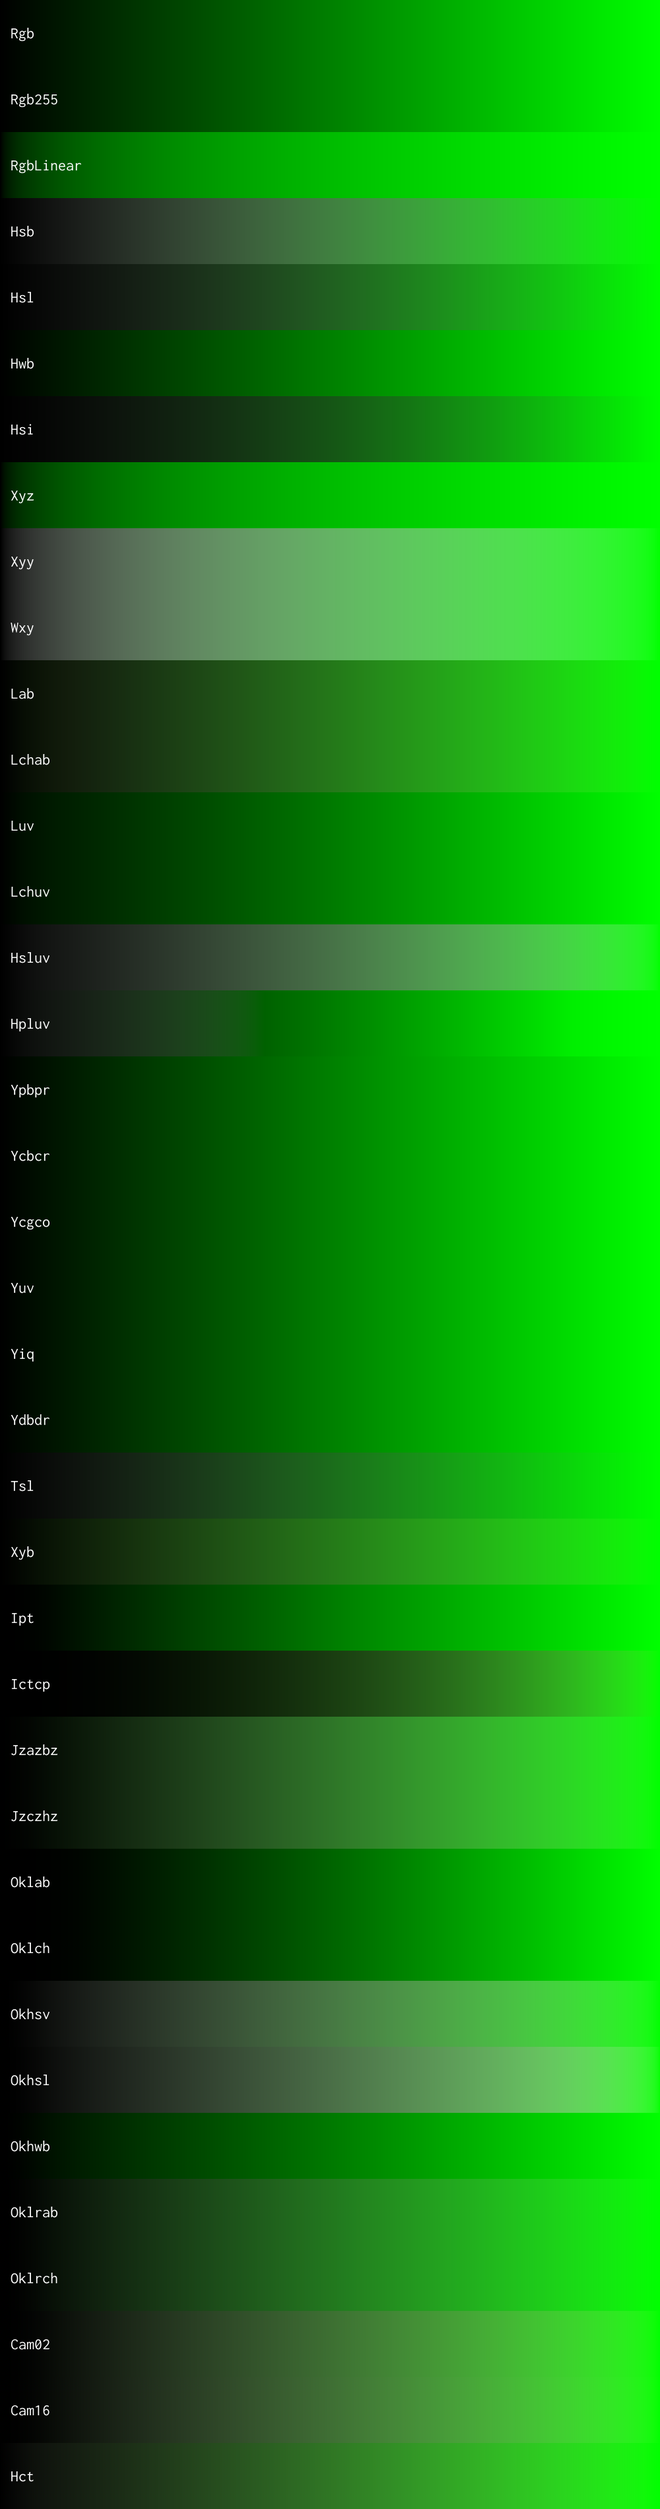
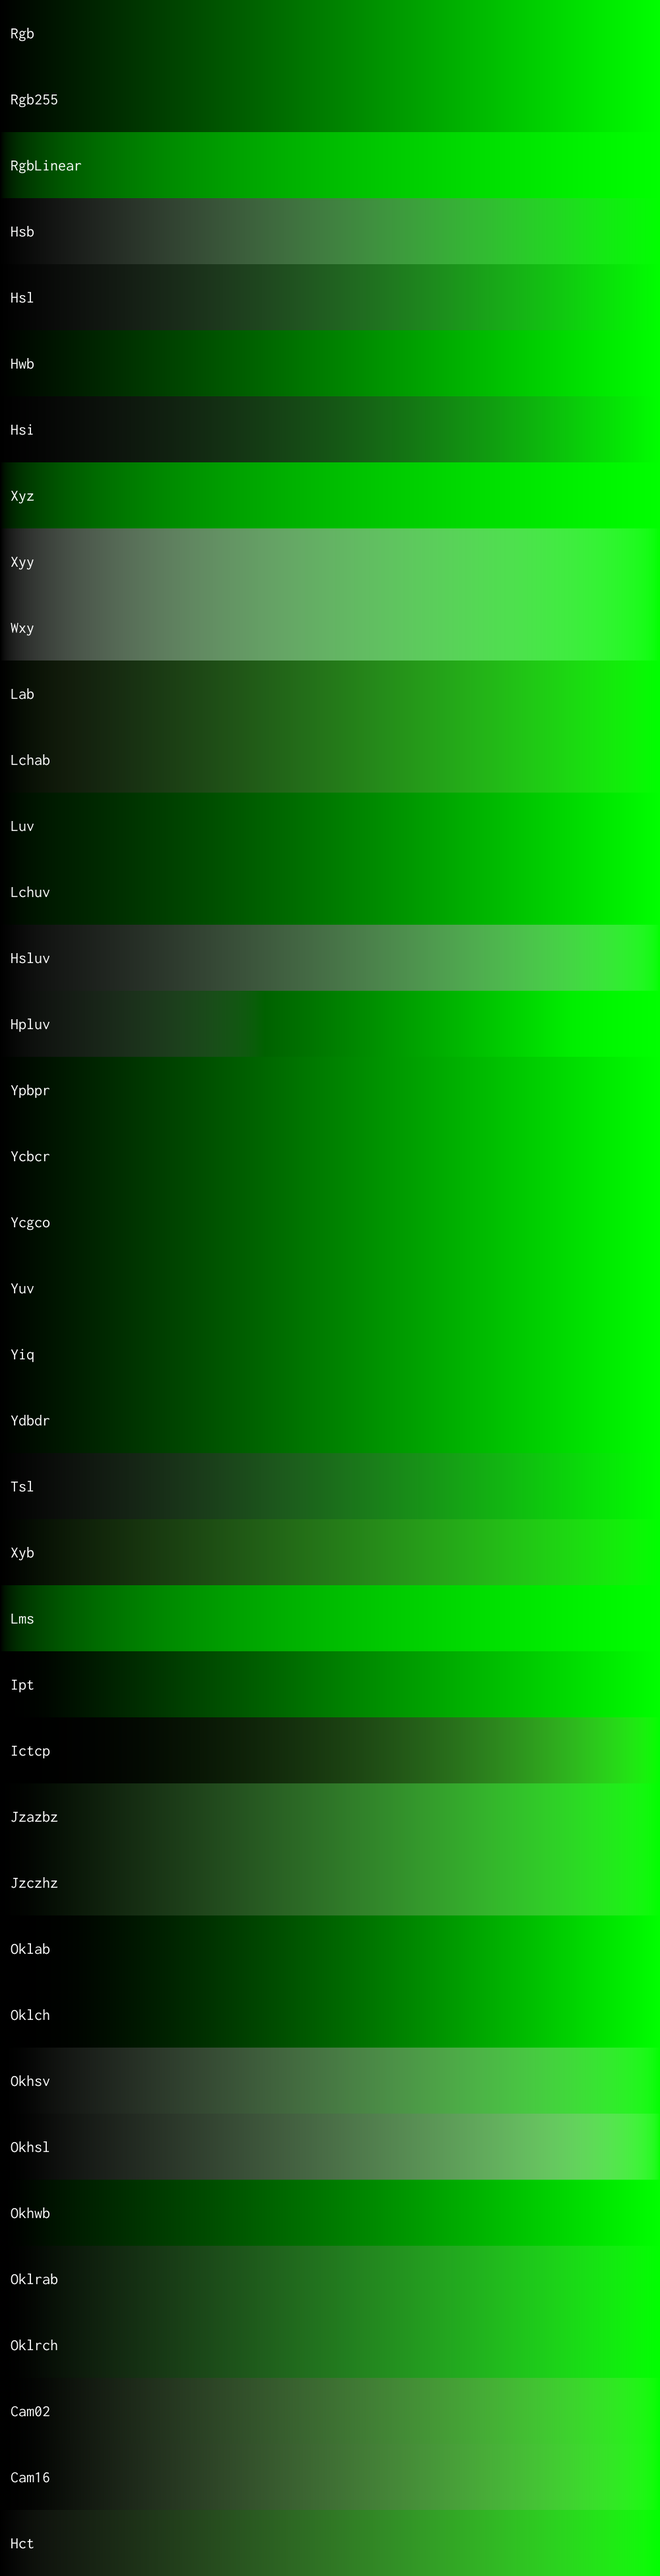
Add LMS colour space

diff --git a/Unicolour.Tests/KnownLmsTests.cs b/Unicolour.Tests/KnownLmsTests.cs
@@ -1,0 +1,76 @@
+using NUnit.Framework;
+using Wacton.Unicolour.Tests.Utils;
+
+namespace Wacton.Unicolour.Tests;
+
+public class KnownLmsTests
+{
+    private const double Tolerance = 0.00025;
+
+    [TestCase(nameof(Illuminant.D65))]
+    [TestCase(nameof(Illuminant.D50))]
+    [TestCase(nameof(Illuminant.E))]
+    public void Black(string illuminantName)
+    {
+        var black = new Unicolour(ConfigUtils.GetConfigWithStandardRgb(illuminantName), ColourSpace.Xyz, 0, 0, 0);
+        TestUtils.AssertTriplet<Lms>(black, new(0.0, 0.0, 0.0), Tolerance);
+    }
+    
+    [TestCase(nameof(Illuminant.D65))]
+    [TestCase(nameof(Illuminant.D50))]
+    [TestCase(nameof(Illuminant.E))]
+    public void White(string illuminantName)
+    {
+        var whiteChromaticity = TestUtils.Illuminants[illuminantName].GetWhitePoint(Observer.Degree2).ToChromaticity();
+        var white = new Unicolour(ConfigUtils.GetConfigWithStandardRgb(illuminantName), whiteChromaticity);
+        TestUtils.AssertTriplet<Lms>(white, new(1.0, 1.0, 1.0), Tolerance); // white is always normalised as [1, 1, 1] regardless of XYZ illuminant
+    }
+    
+    [TestCase(nameof(Illuminant.D65))]
+    [TestCase(nameof(Illuminant.D50))]
+    [TestCase(nameof(Illuminant.E))]
+    public void Grey(string illuminantName)
+    {
+        var grey = StandardRgb.Grey.ConvertToConfiguration(ConfigUtils.GetConfigWithStandardRgb(illuminantName));
+        var luminance = grey.RelativeLuminance;
+        TestUtils.AssertTriplet<Lms>(grey, new(luminance, luminance, luminance), Tolerance);
+    }
+    
+    /*
+     * not yet found reliable reference values for non-greyscale colours
+     * so these tests are confirming expected relative LMS values
+     */
+
+    [TestCase(nameof(Illuminant.D65))]
+    [TestCase(nameof(Illuminant.D50))]
+    [TestCase(nameof(Illuminant.E))]
+    public void Red(string illuminantName)
+    {
+        var red = StandardRgb.Red.ConvertToConfiguration(ConfigUtils.GetConfigWithStandardRgb(illuminantName));
+        var lms = red.Lms;
+        Assert.That(lms.L, Is.GreaterThan(lms.M));
+        Assert.That(lms.M, Is.GreaterThan(lms.S));
+    }
+    
+    [TestCase(nameof(Illuminant.D65))]
+    [TestCase(nameof(Illuminant.D50))]
+    [TestCase(nameof(Illuminant.E))]
+    public void Green(string illuminantName)
+    {
+        var green = StandardRgb.Green.ConvertToConfiguration(ConfigUtils.GetConfigWithStandardRgb(illuminantName));
+        var lms = green.Lms;
+        Assert.That(lms.M, Is.GreaterThan(lms.L));
+        Assert.That(lms.L, Is.GreaterThan(lms.S));
+    }
+    
+    [TestCase(nameof(Illuminant.D65))]
+    [TestCase(nameof(Illuminant.D50))]
+    [TestCase(nameof(Illuminant.E))]
+    public void Blue(string illuminantName)
+    {
+        var blue = StandardRgb.Blue.ConvertToConfiguration(ConfigUtils.GetConfigWithStandardRgb(illuminantName));;
+        var lms = blue.Lms;
+        Assert.That(lms.S, Is.GreaterThan(lms.M));
+        Assert.That(lms.M, Is.GreaterThan(lms.L));
+    }
+}

diff --git a/Unicolour/Lms.cs b/Unicolour/Lms.cs
@@ -1,0 +1,59 @@
+namespace Wacton.Unicolour;
+
+public record Lms : ColourRepresentation
+{
+    protected override int? HueIndex => null;
+    public double L => First;
+    public double M => Second;
+    public double S => Third;
+    internal override bool IsGreyscale => L.Equals(M) && M.Equals(S);
+    
+    public Lms(double l, double m, double s) : this(l, m, s, ColourHeritage.None) {}
+    internal Lms(ColourTriplet triplet, ColourHeritage heritage) : this(triplet.First, triplet.Second, triplet.Third, heritage) {}
+    internal Lms(double l, double m, double s, ColourHeritage heritage) : base(l, m, s, heritage) {}
+
+    protected override string FirstString => $"{L:F4}";
+    protected override string SecondString => $"{M:F4}";
+    protected override string ThirdString => $"{S:F4}";
+    public override string ToString() => base.ToString();
+    
+    /*
+     * LMS is a transform of XYZ 
+     * Forward: https://en.wikipedia.org/wiki/LMS_color_space#XYZ_to_LMS
+     * Reverse: https://en.wikipedia.org/wiki/LMS_color_space#XYZ_to_LMS
+     *
+     * this is a normalised space where black = (0, 0, 0), white = (1, 1, 1), etc. regardless of XYZ illuminant
+     * determining physiological cone responses (i.e. D65 white does trigger equal L, M, S responses) requires spectral data and LMS CMFs
+     * but spectral data is almost never present whereas XYZ values always are
+     * see also: https://doi.org/10.1002/col.22879 - transforming XYZ CMFs (e.g. x̄) to LMS CMFs (e.g. l-bar)
+     */
+    
+    // aka VonKries from http://www.brucelindbloom.com/index.html?Eqn_ChromAdapt.html
+    internal static readonly Matrix HuntPointerEstevez = new(new[,]
+    {
+        { +0.4002400, +0.7076000, -0.0808100 },
+        { -0.2263000, +1.1653200, +0.0457000 },
+        { +0.0000000, +0.0000000, +0.9182200 }
+    });
+    
+    // this is the white point that HPE is defined relative to
+    // the LMS values themselves are not tied to a specific white point
+    // and the XYZ white point ultimately has no impact - black is always (0, 0, 0), white is always (1, 1, 1), etc.
+    private static readonly WhitePoint D65WhitePoint = Illuminant.D65.GetWhitePoint(Observer.Degree2);
+    
+    internal static Lms FromXyz(Xyz xyz, XyzConfiguration xyzConfig)
+    {
+        var xyzMatrix = Matrix.From(xyz);
+        var d65Matrix = Adaptation.WhitePoint(xyzMatrix, xyzConfig.WhitePoint, D65WhitePoint, xyzConfig.AdaptationMatrix);
+        var lmsMatrix = HuntPointerEstevez.Multiply(d65Matrix);
+        return new Lms(lmsMatrix.ToTriplet(), ColourHeritage.From(xyz));
+    }
+
+    internal static Xyz ToXyz(Lms lms, XyzConfiguration xyzConfig)
+    {
+        var lmsMatrix = Matrix.From(lms);
+        var d65Matrix = HuntPointerEstevez.Inverse().Multiply(lmsMatrix);
+        var xyzMatrix = Adaptation.WhitePoint(d65Matrix, D65WhitePoint, xyzConfig.WhitePoint, xyzConfig.AdaptationMatrix);
+        return new Xyz(xyzMatrix.ToTriplet(), ColourHeritage.From(lms));
+    }
+}

diff --git a/Unicolour/VisionDeficiency.cs b/Unicolour/VisionDeficiency.cs
@@ -21,7 +21,7 @@ public static class VisionDeficiency
             Cvd.Deuteranomaly => ApplySimulation(colour, DeuteranomalyRgbSim, severity),
             Cvd.Tritanopia => ApplySimulation(colour, TritanomalyRgbSim, 1.0),
             Cvd.Tritanomaly => ApplySimulation(colour, TritanomalyRgbSim, severity),
-            Cvd.BlueConeMonochromacy => ApplySimulation(colour, BlueConeMonochromacyLmsSim),
+            Cvd.BlueConeMonochromacy => ApplySimulation(colour, ColourSpace.Lms, BlueConeMonochromacyLmsSim),
             Cvd.Achromatopsia => new(ColourSpace.RgbLinear, colour.RelativeLuminance, colour.RelativeLuminance, colour.RelativeLuminance),
             _ => throw new ArgumentOutOfRangeException(nameof(cvd), cvd, null)
         };
@@ -47,22 +47,14 @@ public static class VisionDeficiency
         };
         
         // since simulated RGB-Linear often results in values outwith 0 - 1, seems unnecessary to use constrained inputs
-        var simulatedRgbLinear = new Matrix(simulationMatrix).Multiply(Matrix.From(colour.RgbLinear)).ToTriplet();
-        return new Unicolour(ColourSpace.RgbLinear, simulatedRgbLinear.Tuple);
+        return ApplySimulation(colour, ColourSpace.RgbLinear, simulationMatrix);
     }
     
-    internal static Unicolour ApplySimulation(Unicolour colour, double[,] simulationMatrix)
+    internal static Unicolour ApplySimulation(Unicolour colour, ColourSpace colourSpace, double[,] simulationMatrix)
     {
-        var lmsMatrix = new Matrix(Adaptation.VonKries);
-        var lms = lmsMatrix.Multiply(Matrix.From(colour.Xyz));
-        var simulatedLms = new Matrix(simulationMatrix).Multiply(lms);
-        
-        var simulatedXyz = lmsMatrix.Inverse().Multiply(simulatedLms).ToTriplet();
-        return new Unicolour(ColourSpace.Xyz, simulatedXyz.Tuple);
-        
-        // TODO: add LMS colour space?
-        // var simulatedLms = new Matrix(simulationMatrix).Multiply(colour.Lms);
-        // return new Unicolour(ColourSpace.Lms, simulatedLms.Tuple);
+        var colourMatrix = Matrix.From(colour.GetRepresentation(colourSpace));
+        var simulatedLms = new Matrix(simulationMatrix).Multiply(colourMatrix).ToTriplet();
+        return new Unicolour(colourSpace, simulatedLms.Tuple);
     }
 
     private static double[,] InterpolateMatrices(double[][,] matrices, double severity)

diff --git a/Unicolour.Tests/Utils/RandomColours.cs b/Unicolour.Tests/Utils/RandomColours.cs
@@ -32,6 +32,7 @@ internal static class RandomColours
     public static readonly List<ColourTriplet> YdbdrTriplets = [];
     public static readonly List<ColourTriplet> TslTriplets = [];
     public static readonly List<ColourTriplet> XybTriplets = [];
+    public static readonly List<ColourTriplet> LmsTriplets = [];
     public static readonly List<ColourTriplet> IptTriplets = [];
     public static readonly List<ColourTriplet> IctcpTriplets = [];
     public static readonly List<ColourTriplet> JzazbzTriplets = [];
@@ -100,6 +101,7 @@ internal static class RandomColours
             YdbdrTriplets.Add(Ydbdr());
             TslTriplets.Add(Tsl());
             XybTriplets.Add(Xyb());
+            LmsTriplets.Add(Lms());
             IptTriplets.Add(Ipt());
             IctcpTriplets.Add(Ictcp());
             JzazbzTriplets.Add(Jzazbz());
@@ -152,6 +154,7 @@ internal static class RandomColours
             ColourSpace.Ydbdr => Ydbdr(),
             ColourSpace.Tsl => Tsl(),
             ColourSpace.Xyb => Xyb(),
+            ColourSpace.Lms => Lms(),
             ColourSpace.Ipt => Ipt(),
             ColourSpace.Ictcp => Ictcp(),
             ColourSpace.Jzazbz => Jzazbz(),
@@ -198,6 +201,7 @@ internal static class RandomColours
     private static ColourTriplet Ydbdr() => new(Rng(), Rng(-1.333, 1.333), Rng(-1.333, 1.333));
     private static ColourTriplet Tsl() => new(Rng(0, 360), Rng(), Rng());
     private static ColourTriplet Xyb() => new(Rng(-0.03, 0.03), Rng(), Rng(-0.4, 0.4)); 
+    private static ColourTriplet Lms() => new(Rng(), Rng(), Rng());
     private static ColourTriplet Ipt() => new(Rng(), Rng(-0.75, 0.75), Rng(-0.75, 0.75)); 
     private static ColourTriplet Ictcp() => new(Rng(), Rng(-0.5, 0.5), Rng(-0.5, 0.5)); 
     private static ColourTriplet Jzazbz() => new(Rng(0, 0.17), Rng(-0.10, 0.11), Rng(-0.16, 0.12)); // from own test values (SDR) - ranges suggested by paper (0->1, -0.5->0.5, -0.5->0.5) easily produce XYZ with NaNs [https://doi.org/10.1364/OE.25.015131]

diff --git a/Unicolour/Unicolour.Lookups.cs b/Unicolour/Unicolour.Lookups.cs
@@ -30,6 +30,7 @@ public partial class Unicolour
             ColourSpace.Ydbdr => Ydbdr,
             ColourSpace.Tsl => Tsl,
             ColourSpace.Xyb => Xyb,
+            ColourSpace.Lms => Lms,
             ColourSpace.Ipt => Ipt,
             ColourSpace.Ictcp => Ictcp,
             ColourSpace.Jzazbz => Jzazbz,
@@ -77,6 +78,7 @@ public partial class Unicolour
             ColourSpace.Ydbdr => new Ydbdr(first, second, third, heritage),
             ColourSpace.Tsl => new Tsl(first, second, third, heritage),
             ColourSpace.Xyb => new Xyb(first, second, third, heritage),
+            ColourSpace.Lms => new Lms(first, second, third, heritage),
             ColourSpace.Ipt => new Ipt(first, second, third, heritage),
             ColourSpace.Ictcp => new Ictcp(first, second, third, heritage),
             ColourSpace.Jzazbz => new Jzazbz(first, second, third, heritage),
@@ -220,6 +222,7 @@ public partial class Unicolour
             ColourSpace.Ydbdr => RgbLinear.ToXyz(RgbLinear, Configuration.Rgb, Configuration.Xyz),
             ColourSpace.Tsl => RgbLinear.ToXyz(RgbLinear, Configuration.Rgb, Configuration.Xyz),
             ColourSpace.Xyb => RgbLinear.ToXyz(RgbLinear, Configuration.Rgb, Configuration.Xyz),
+            ColourSpace.Lms => Lms.ToXyz(Lms, Configuration.Xyz),
             ColourSpace.Ipt => Ipt.ToXyz(Ipt, Configuration.Xyz),
             ColourSpace.Ictcp => Ictcp.ToXyz(Ictcp, Configuration.Xyz, Configuration.DynamicRange),
             ColourSpace.Jzazbz => Jzazbz.ToXyz(Jzazbz, Configuration.Xyz, Configuration.DynamicRange),
@@ -389,6 +392,15 @@ public partial class Unicolour
         {
             ColourSpace.Xyb => (Xyb)SourceRepresentation,
             _ => Xyb.FromRgbLinear(RgbLinear)
+        };
+    }
+    
+    private Lms EvaluateLms()
+    {
+        return SourceColourSpace switch
+        {
+            ColourSpace.Lms => (Lms)SourceRepresentation,
+            _ => Lms.FromXyz(Xyz, Configuration.Xyz)
         };
     }
     

diff --git a/Unicolour.Tests/GreyscaleTests.cs b/Unicolour.Tests/GreyscaleTests.cs
@@ -310,6 +310,29 @@ public class GreyscaleTests
     [TestCase(0.1, 1.0, -0.1, false)]
     public void Xyb(double x, double y, double b, bool expected) => AssertUnicolour(new(ColourSpace.Xyb, x, y, b), expected);
     
+    [TestCase(0.0, 0.0, 0.0, true)]
+    [TestCase(-0.00000000001, 0.0, -0.0, false)]
+    [TestCase(-0.0, -0.00000000001, 0.0, false)]
+    [TestCase(0.0, -0.0, -0.00000000001, false)]
+    [TestCase(0.00000000001, 0.0, 0.0, false)]
+    [TestCase(0.0, 0.00000000001, 0.0, false)]
+    [TestCase(0.0, 0.0, 0.00000000001, false)]
+    [TestCase(0.5, 0.5, 0.5, true)]
+    [TestCase(0.50000000001, 0.5, 0.5, false)]
+    [TestCase(0.5, 0.50000000001, 0.5, false)]
+    [TestCase(0.5, 0.5, 0.50000000001, false)]
+    [TestCase(0.49999999999, 0.5, 0.5, false)]
+    [TestCase(0.5, 0.49999999999, 0.5, false)]
+    [TestCase(0.5, 0.5, 0.49999999999, false)]
+    [TestCase(1.0, 1.0, 1.0, true)]
+    [TestCase(1.00000000001, 1.0, 1.0, false)]
+    [TestCase(1.0, 1.00000000001, 1.0, false)]
+    [TestCase(1.0, 1.0, 1.00000000001, false)]
+    [TestCase(0.99999999999, 1.0, 1.0, false)]
+    [TestCase(1.0, 0.99999999999, 1.0, false)]
+    [TestCase(1.0, 1.0, 0.99999999999, false)]
+    public void Lms(double l, double m, double s, bool expected) => AssertUnicolour(new(ColourSpace.Lms, l, m, s), expected);
+    
     [TestCase(0.5, 0.0, 0.0, true)]
     [TestCase(0.5, 0.00000000001, 0.0, false)]
     [TestCase(0.5, -0.00000000001, 0.0, false)]

diff --git a/Unicolour/Adaptation.cs b/Unicolour/Adaptation.cs
@@ -3,18 +3,17 @@ namespace Wacton.Unicolour;
 // http://www.brucelindbloom.com/index.html?Eqn_ChromAdapt.html
 public static class Adaptation
 {
+    // HPE for LMS conversion is the matrix originallu used in the von Kries transformation for chromatic adaptation
+    // doesn't matter that it's D65-relative; during adaptation both source & destination use D65 as a common relative space
+    public static readonly double[,] VonKries = Lms.HuntPointerEstevez.Data;
+    
+    // Bradford is a "spectrally sharpened" transformation matrix, adjusting L and M cone responses to make them more distinct
+    // designed to produce better adaptation results, not designed for actual LMS conversion
     public static readonly double[,] Bradford =
     {
         { +0.8951000, +0.2664000, -0.1614000 },
         { -0.7502000, +1.7135000, +0.0367000 },
         { +0.0389000, -0.0685000, +1.0296000 }
-    };
-    
-    public static readonly double[,] VonKries = // aka Hunt-Pointer-Estevez
-    {
-        { +0.4002400, +0.7076000, -0.0808100 },
-        { -0.2263000, +1.1653200, +0.0457000 },
-        { +0.0000000, +0.0000000, +0.9182200 }
     };
     
     public static readonly double[,] XyzScaling =

diff --git a/Unicolour.Tests/Utils/TestUtils.cs b/Unicolour.Tests/Utils/TestUtils.cs
@@ -172,6 +172,7 @@ internal static class TestUtils
             AccessProperty(() => colour.Lab);
             AccessProperty(() => colour.Lchab);
             AccessProperty(() => colour.Lchuv);
+            AccessProperty(() => colour.Lms);
             AccessProperty(() => colour.Luv);
             AccessProperty(() => colour.Oklab);
             AccessProperty(() => colour.Oklch);
@@ -257,6 +258,7 @@ internal static class TestUtils
         { typeof(Ydbdr), ColourSpace.Ydbdr },
         { typeof(Tsl), ColourSpace.Tsl },
         { typeof(Xyb), ColourSpace.Xyb },
+        { typeof(Lms), ColourSpace.Lms },
         { typeof(Ipt), ColourSpace.Ipt },
         { typeof(Ictcp), ColourSpace.Ictcp },
         { typeof(Jzazbz), ColourSpace.Jzazbz },

diff --git a/Unicolour.Tests/MixHueNoComponentTests.cs b/Unicolour.Tests/MixHueNoComponentTests.cs
@@ -27,6 +27,7 @@ public class MixHueNoComponentTests : MixHueAgnosticTests
         new(ColourSpace.Yiq, new Range(0, 1), new Range(-0.595, 0.595), new Range(-0.522, 0.522)),
         new(ColourSpace.Ydbdr, new Range(0, 1), new Range(-1.333, 1.333), new Range(-1.333, 1.333)),
         new(ColourSpace.Xyb, new Range(-0.03, 0.03), new Range(0, 1), new Range(-0.4, 0.4)),
+        new(ColourSpace.Lms, new Range(0, 1), new Range(0, 1), new Range(0, 1)),
         new(ColourSpace.Ipt, new Range(0, 1), new Range(-0.75, 0.75), new Range(-0.75, 0.75)),
         new(ColourSpace.Ictcp, new Range(0, 1), new Range(-0.5, 0.5), new Range(-0.5, 0.5)),
         new(ColourSpace.Jzazbz, new Range(0, 0.16), new Range(-0.1, 0.1), new Range(-0.1, 0.1)),

diff --git a/Unicolour.Tests/RoundtripLmsTests.cs b/Unicolour.Tests/RoundtripLmsTests.cs
@@ -1,0 +1,19 @@
+using NUnit.Framework;
+using Wacton.Unicolour.Tests.Utils;
+
+namespace Wacton.Unicolour.Tests;
+
+public class RoundtripLmsTests
+{
+    private const double Tolerance = 0.0000000005;
+    private static readonly XyzConfiguration XyzConfig = XyzConfiguration.D65;
+    
+    [TestCaseSource(typeof(RandomColours), nameof(RandomColours.LmsTriplets))]
+    public void ViaXyz(ColourTriplet triplet)
+    {
+        var original = new Lms(triplet.First, triplet.Second, triplet.Third);
+        var xyz = Lms.ToXyz(original, XyzConfig);
+        var roundtrip = Lms.FromXyz(xyz, XyzConfig);
+        TestUtils.AssertTriplet(roundtrip.Triplet, original.Triplet, Tolerance);
+    }
+}

diff --git a/Unicolour/Unicolour.cs b/Unicolour/Unicolour.cs
@@ -27,6 +27,7 @@ public partial class Unicolour : IEquatable<Unicolour>
     private Ydbdr? ydbdr;
     private Tsl? tsl;
     private Xyb? xyb;
+    private Lms? lms;
     private Ipt? ipt;
     private Ictcp? ictcp;
     private Jzazbz? jzazbz;
@@ -76,6 +77,7 @@ public partial class Unicolour : IEquatable<Unicolour>
     public Ydbdr Ydbdr => Get(ref ydbdr, EvaluateYdbdr);
     public Tsl Tsl => Get(ref tsl, EvaluateTsl);
     public Xyb Xyb => Get(ref xyb, EvaluateXyb);
+    public Lms Lms => Get(ref lms, EvaluateLms);
     public Ipt Ipt => Get(ref ipt, EvaluateIpt);
     public Ictcp Ictcp => Get(ref ictcp, EvaluateIctcp);
     public Jzazbz Jzazbz => Get(ref jzazbz, EvaluateJzazbz);

diff --git a/Unicolour.Tests/RoundtripXyzTests.cs b/Unicolour.Tests/RoundtripXyzTests.cs
@@ -49,6 +49,15 @@ public class RoundtripXyzTests
     }
     
     [TestCaseSource(typeof(RandomColours), nameof(RandomColours.XyzTriplets))]
+    public void ViaLms(ColourTriplet triplet)
+    {
+        var original = new Xyz(triplet.First, triplet.Second, triplet.Third);
+        var lms = Lms.FromXyz(original, XyzConfig);
+        var roundtrip = Lms.ToXyz(lms, XyzConfig);
+        TestUtils.AssertTriplet(roundtrip.Triplet, original.Triplet, Tolerance);
+    }
+    
+    [TestCaseSource(typeof(RandomColours), nameof(RandomColours.XyzTriplets))]
     public void ViaItp(ColourTriplet triplet)
     {
         var original = new Xyz(triplet.First, triplet.Second, triplet.Third);
